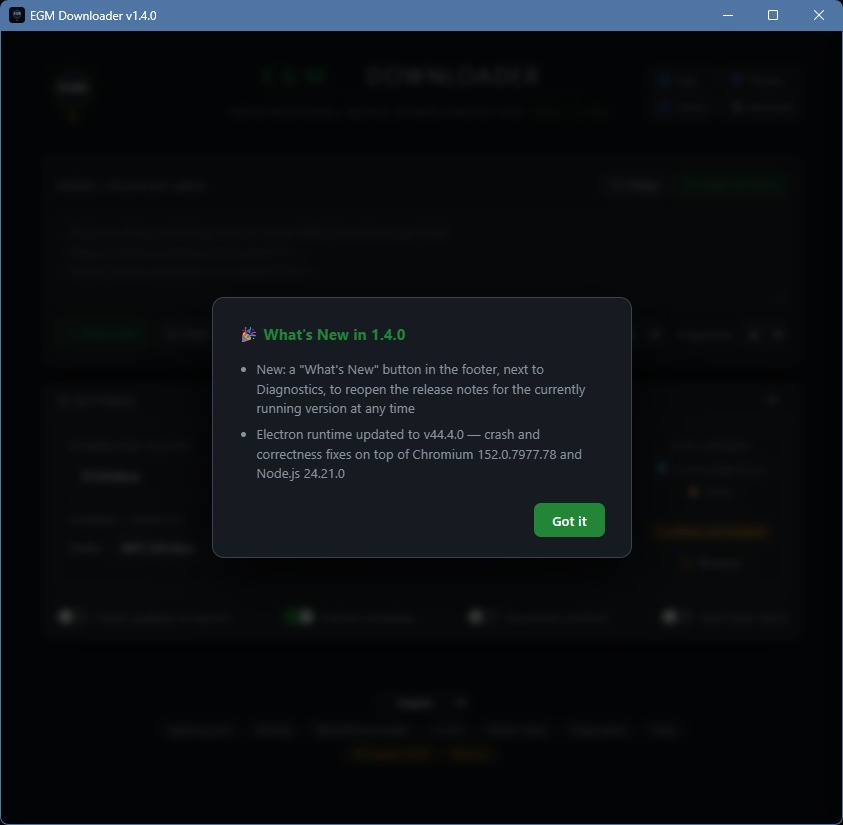
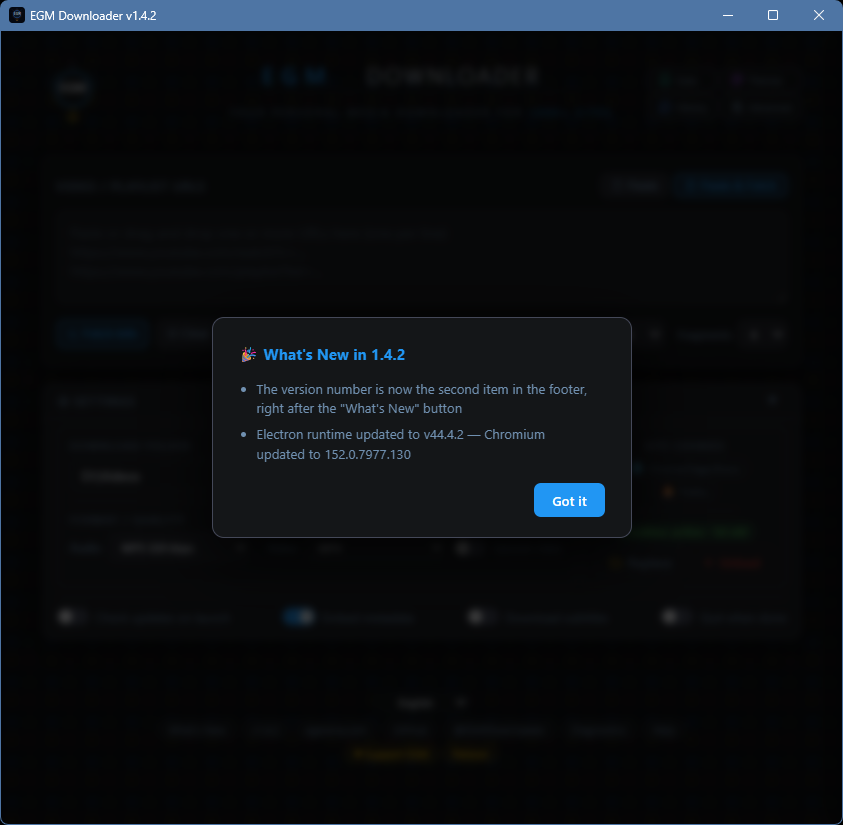
docs: update screenshots to v1.4.2, splash unchanged

Changed region(s): [[0.2467, 0.3333, 0.7711, 0.5152], [0.2467, 0.5152, 0.7711, 0.697], [0.3393, 0.7273, 0.3701, 0.7576]]

diff --git a/README.md b/README.md
@@ -67,7 +67,7 @@
 
 ## 🖼 Screenshots
 
-> 📸 *Screenshots captured on v1.4.0 — WHAT'S NEW. The UI is identical across Windows, macOS, and Linux. More screenshots coming soon.*
+> 📸 *Screenshots captured on v1.4.2 — FRONT AND CENTER: RELOADED. The UI is identical across Windows, macOS, and Linux. More screenshots coming soon.*
 
 <div align="center">
   <a href="screenshots/01-splash-screen.png">
